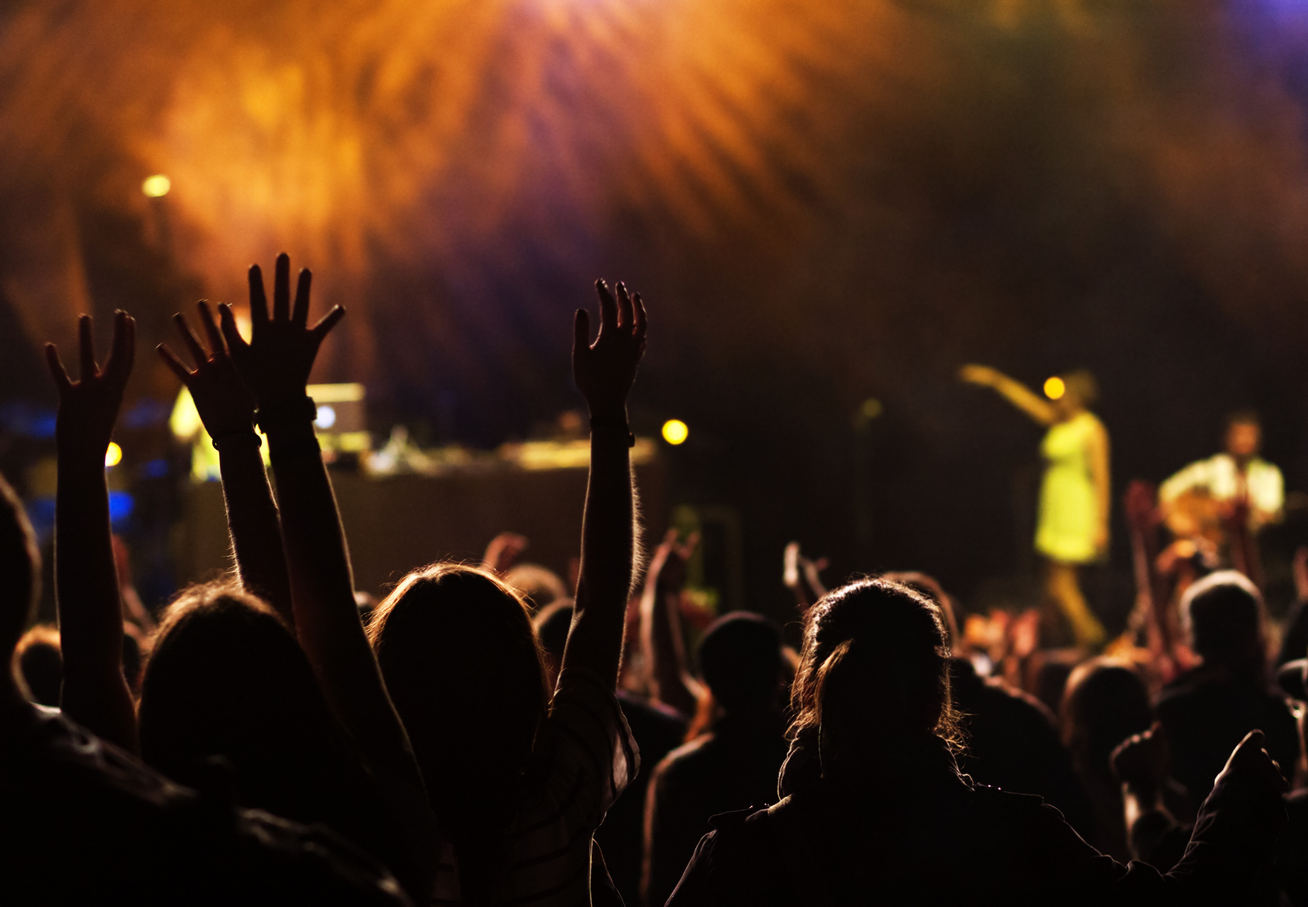
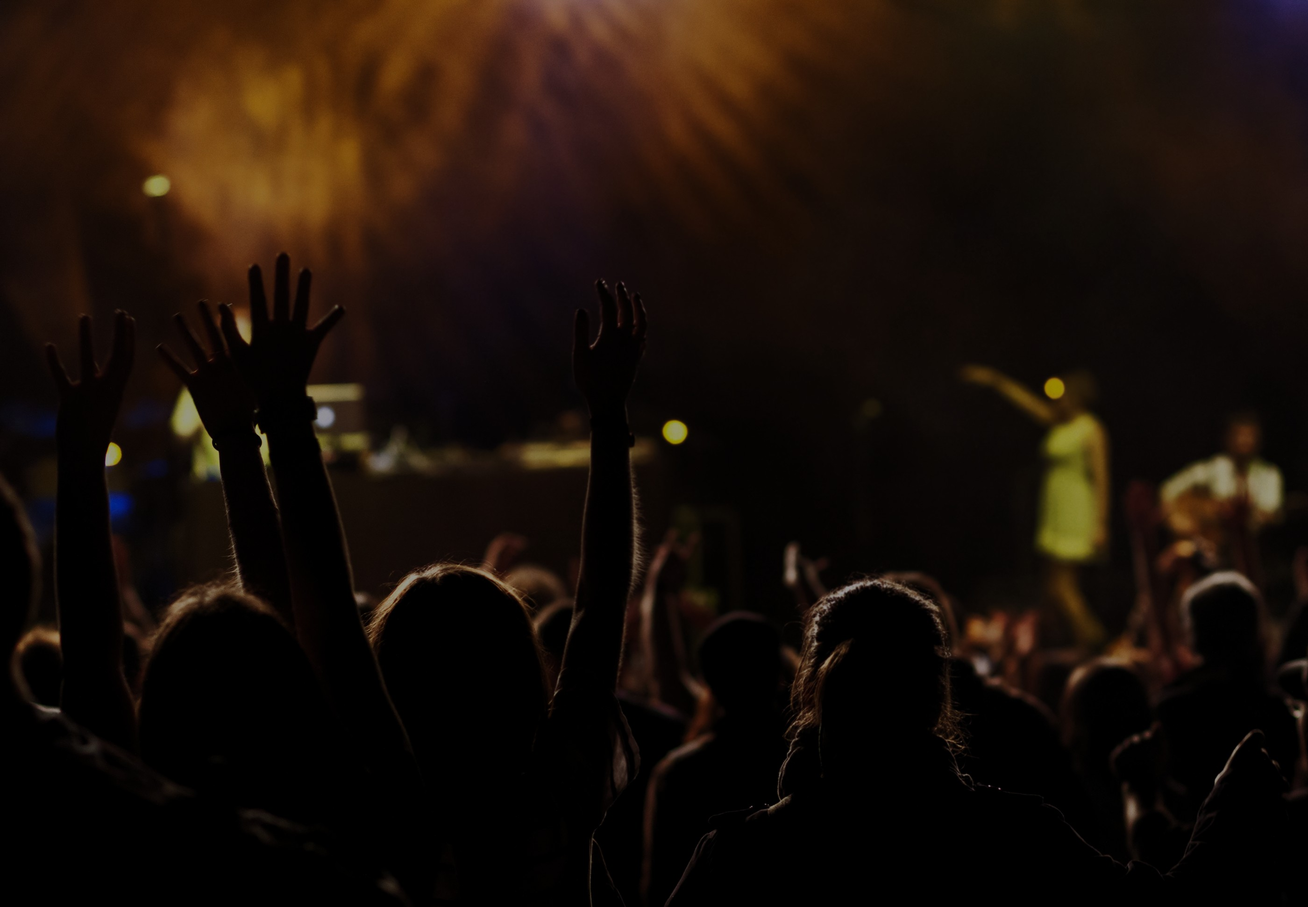
Darken image

diff --git a/assets/css/style.css b/assets/css/style.css
@@ -201,7 +201,7 @@ input {
 
 /* HEADER SECTION */
 #h {
-	background: url(../img/shutterstock_147266498.jpg) no-repeat center top;
+	background: url(../img/shutterstock_147266498_2.png) no-repeat center top;
 	padding-top: 5px;
 	background-attachment: relative;
 	background-position: center center;
